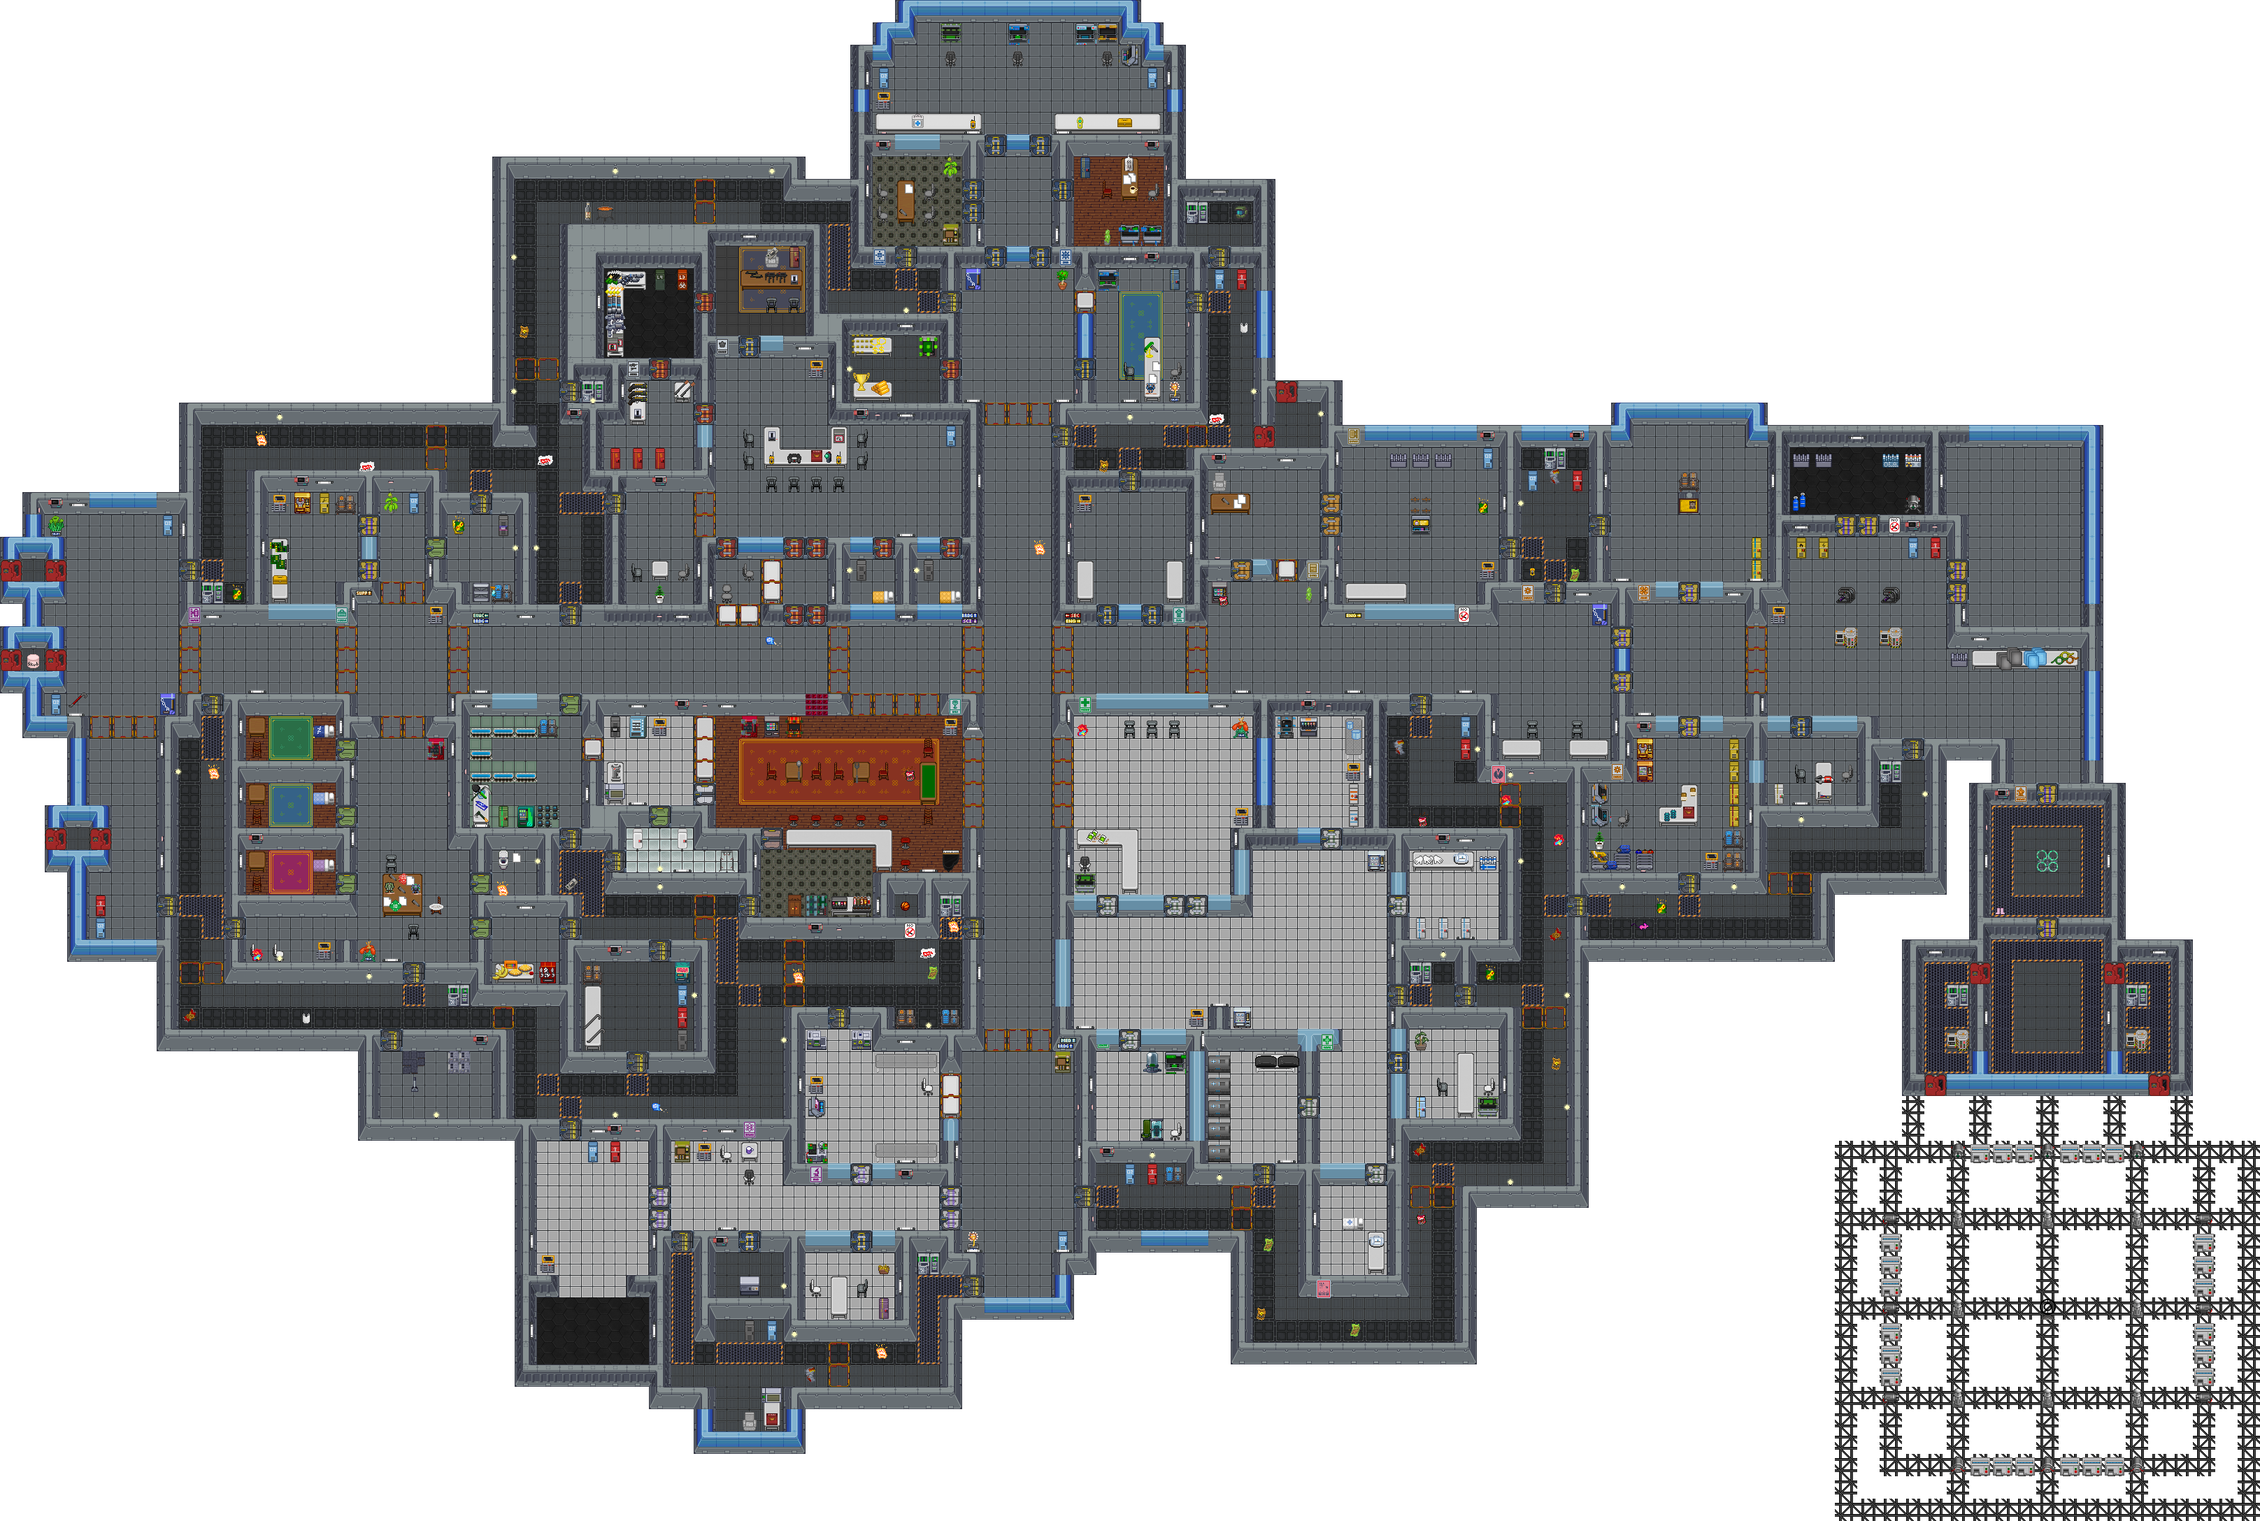
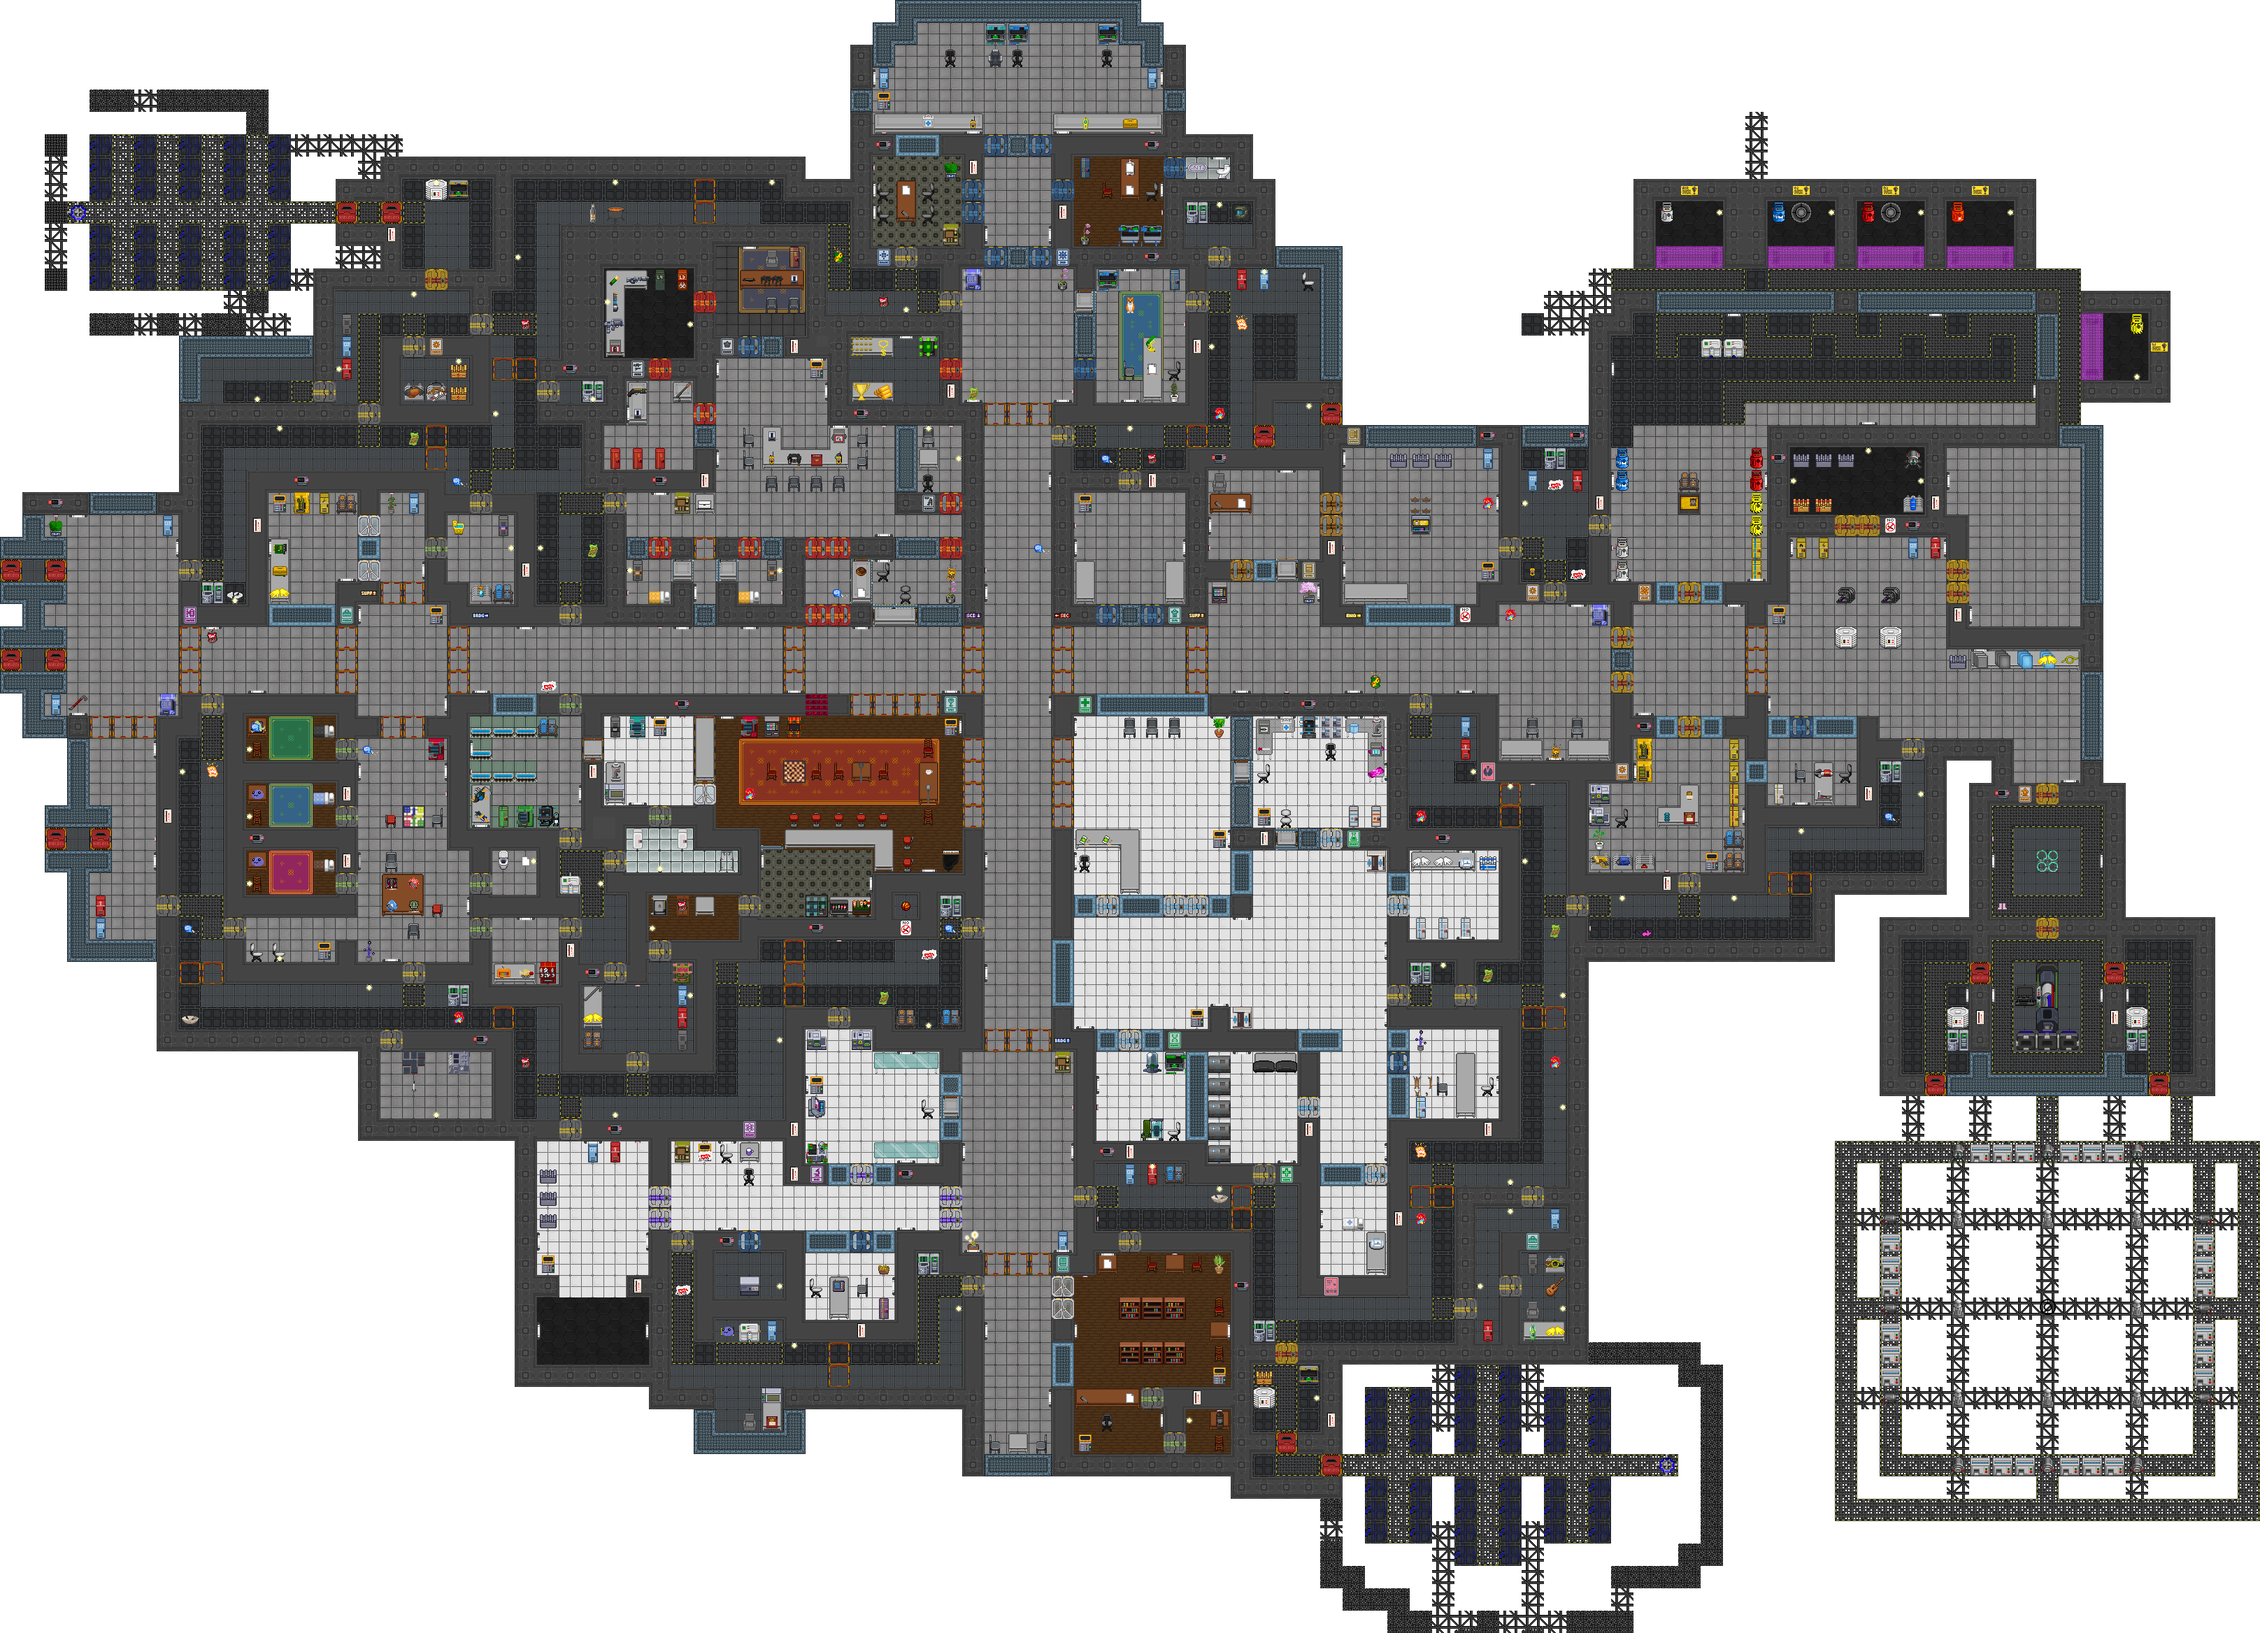
Fix issues with grid rotation

diff --git a/Content.MapRenderer/Painters/EntityPainter.cs b/Content.MapRenderer/Painters/EntityPainter.cs
@@ -3,7 +3,6 @@ using System.Collections.Concurrent;
 using System.Collections.Generic;
 using System.Linq;
 using Content.Shared.SubFloor;
-using Robust.Client.Graphics;
 using Robust.Client.ResourceManagement;
 using Robust.Server.GameObjects;
 using Robust.Shared.GameObjects;
@@ -12,6 +11,7 @@ using Robust.Shared.Timing;
 using SixLabors.ImageSharp;
 using SixLabors.ImageSharp.PixelFormats;
 using SixLabors.ImageSharp.Processing;
+using static Robust.Client.Graphics.RSI.State;
 using static Robust.UnitTesting.RobustIntegrationTest;
 using SpriteComponent = Robust.Client.GameObjects.SpriteComponent;
 
@@ -21,6 +21,8 @@ namespace Content.MapRenderer.Painters
     {
         private readonly IResourceCache _cResourceCache;
         private readonly IEntityManager _cEntityManager;
+        private readonly IMapManager _cMapManager;
+
         private readonly IEntityManager _sEntityManager;
 
         private readonly Dictionary<(string path, string state), Image> _images;
@@ -32,6 +34,8 @@ namespace Content.MapRenderer.Painters
         {
             _cResourceCache = client.ResolveDependency<IResourceCache>();
             _cEntityManager = client.ResolveDependency<IEntityManager>();
+            _cMapManager = client.ResolveDependency<IMapManager>();
+
             _sEntityManager = server.ResolveDependency<IEntityManager>();
 
             _errorImage = Image.Load<Rgba32>(_cResourceCache.ContentFileRead("/Textures/error.rsi/error.png"));
@@ -50,11 +54,6 @@ namespace Content.MapRenderer.Painters
 
             var stopwatch = new Stopwatch();
             stopwatch.Start();
-
-            var bounds = grid.WorldBounds;
-            var xOffset = (int) Math.Abs(bounds.Left);
-            var yOffset = (int) Math.Abs(bounds.Bottom);
-
 
             // TODO cache this shit what are we insane
             entities.Sort(Comparer<EntityData>.Create((x, y) => x.Sprite.DrawDepth.CompareTo(y.Sprite.DrawDepth)));
@@ -121,11 +120,11 @@ namespace Content.MapRenderer.Painters
                                 (xStart, xEnd, yStart, yEnd) = dir switch
                                 {
                                     // Only need the first tuple as doubles for the compiler to recognize it
-                                    RSI.State.Direction.South => (0d, 0.5d, 0d, 0.5d),
-                                    RSI.State.Direction.East => (0, 0.5, 0.5, 1),
-                                    RSI.State.Direction.North => (0.5, 1, 0, 0.5),
-                                    RSI.State.Direction.West => (0.5, 1, 0.5, 1),
-                                    _ => throw new ArgumentOutOfRangeException()
+                                    Direction.South => (0d, 0.5d, 0d, 0.5d),
+                                    Direction.East => (0, 0.5, 0.5, 1),
+                                    Direction.North => (0.5, 1, 0, 0.5),
+                                    Direction.West => (0.5, 1, 0.5, 1),
+                                    _ => throw new ArgumentOutOfRangeException(nameof(dir))
                                 };
                                 break;
                             }
@@ -149,10 +148,11 @@ namespace Content.MapRenderer.Painters
 
                     image.Mutate(o => o
                         .DrawImage(coloredImage, PixelColorBlendingMode.Multiply, PixelAlphaCompositionMode.SrcAtop, 1)
-                        .Resize(32, 32).Flip(FlipMode.Vertical));
+                        .Resize(32, 32)
+                        .Flip(FlipMode.Vertical));
 
-                    var pointX = (int) ((entity.X + xOffset) * 32) - 16;
-                    var pointY = (int) ((entity.Y + yOffset) * 32) - 16;
+                    var pointX = (int) entity.X;
+                    var pointY = (int) entity.Y;
                     gridCanvas.Mutate(o => o.DrawImage(image, new Point(pointX, pointY), 1));
                 }
             }
@@ -187,9 +187,20 @@ namespace Content.MapRenderer.Painters
                         $"No sprite component found on an entity for which a server sprite component exists. Prototype id: {entity.Prototype?.ID}");
                 }
 
-                var position = entity.Transform.WorldPosition;
-                var x = position.X;
-                var y = position.Y;
+                var xOffset = 0;
+                var yOffset = 0;
+                var tileSize = 1;
+
+                if (_cMapManager.TryGetGrid(entity.Transform.GridID, out var grid))
+                {
+                    xOffset = (int) Math.Abs(grid.LocalBounds.Left);
+                    yOffset = (int) Math.Abs(grid.LocalBounds.Bottom);
+                    tileSize = grid.TileSize;
+                }
+
+                var position = entity.Transform.LocalPosition;
+                var x = ((float) Math.Floor(position.X) + xOffset) * tileSize * TilePainter.TileImageSize;
+                var y = ((float) Math.Floor(position.Y) + yOffset) * tileSize * TilePainter.TileImageSize;
                 var data = new EntityData(sprite, x, y);
 
                 components.GetOrAdd(entity.Transform.GridID, _ => new List<EntityData>()).Add(data);

diff --git a/Content.MapRenderer/Painters/MapPainter.cs b/Content.MapRenderer/Painters/MapPainter.cs
@@ -9,6 +9,7 @@ using Robust.Server.GameObjects;
 using Robust.Server.Player;
 using Robust.Shared;
 using Robust.Shared.Map;
+using Robust.Shared.Maths;
 using Robust.Shared.Timing;
 using SixLabors.ImageSharp;
 using SixLabors.ImageSharp.PixelFormats;
@@ -30,7 +31,8 @@ namespace Content.MapRenderer.Painters
                 CVarOverrides =
                 {
                     [CVars.NetPVS.Name] = "false"
-                }
+                },
+                Pool = false
             };
 
             var serverOptions = new ServerContentIntegrationOption
@@ -39,7 +41,8 @@ namespace Content.MapRenderer.Painters
                 {
                     [CCVars.GameMap.Name] = map,
                     [CVars.NetPVS.Name] = "false"
-                }
+                },
+                Pool = false
             };
 
             var (client, server) = await StartConnectedServerClientPair(clientOptions, serverOptions);
@@ -72,7 +75,8 @@ namespace Content.MapRenderer.Painters
                 }
             });
 
-            await RunTicksSync(client, server, 2);
+            await RunTicksSync(client, server, 10);
+            await Task.WhenAll(client.WaitIdleAsync(), server.WaitIdleAsync());
 
             var sMapManager = server.ResolveDependency<IMapManager>();
 
@@ -84,22 +88,30 @@ namespace Content.MapRenderer.Painters
             {
                 sPlayerManager.GetAllPlayers().Single().AttachedEntity?.Delete();
                 grids = sMapManager.GetAllMapGrids(new MapId(1)).ToArray();
+
+                foreach (var grid in grids)
+                {
+                    grid.WorldRotation = Angle.Zero;
+                }
             });
+
+            await RunTicksSync(client, server, 10);
+            await Task.WhenAll(client.WaitIdleAsync(), server.WaitIdleAsync());
 
             foreach (var grid in grids)
             {
-                var tileXSize = 32;
-                var tileYSize = 32;
+                var tileXSize = grid.TileSize * TilePainter.TileImageSize;
+                var tileYSize = grid.TileSize * TilePainter.TileImageSize;
 
-                var bounds = grid.WorldBounds;
+                var bounds = grid.LocalBounds;
 
-                var left = Math.Abs(bounds.Left);
-                var right = Math.Abs(bounds.Right);
-                var top = Math.Abs(bounds.Top);
-                var bottom = Math.Abs(bounds.Bottom);
+                var left = bounds.Left;
+                var right = bounds.Right;
+                var top = bounds.Top;
+                var bottom = bounds.Bottom;
 
-                var w = (int) Math.Ceiling(left + right) * tileXSize;
-                var h = (int) Math.Ceiling(top + bottom) * tileYSize;
+                var w = (int) Math.Ceiling(right - left) * tileXSize;
+                var h = (int) Math.Ceiling(top - bottom) * tileYSize;
 
                 var gridCanvas = new Image<Rgba32>(w, h);
 
@@ -117,12 +129,11 @@ namespace Content.MapRenderer.Painters
             // We don't care if it fails as we have already saved the images.
             try
             {
-#pragma warning disable 4014
-                TearDown();
-#pragma warning restore 4014
+                await OneTimeTearDown();
             }
-            catch (InvalidOperationException)
+            catch
             {
+                // ignored
             }
         }
     }

diff --git a/Content.MapRenderer/Program.cs b/Content.MapRenderer/Program.cs
@@ -4,8 +4,6 @@ using System.Collections.Generic;
 using System.IO;
 using System.Threading.Tasks;
 using Content.MapRenderer.Extensions;
-using Content.MapRenderer.GitHub;
-using Content.MapRenderer.Imgur.Client;
 using Content.MapRenderer.Painters;
 using Robust.Shared.Utility;
 using SixLabors.ImageSharp;
@@ -71,7 +69,6 @@ namespace Content.MapRenderer
                 maps.Add(fileName);
             }
 
-
             Console.WriteLine($"Creating images for {maps.Count} maps");
 
             foreach (var map in maps)
@@ -80,7 +77,8 @@ namespace Content.MapRenderer
 
                 await foreach (var grid in MapPainter.Paint(map))
                 {
-                    var savePath = DirectoryExtensions.MapImages().FullName;
+                    var fileName = Path.GetFileNameWithoutExtension(map);
+                    var savePath = $"{DirectoryExtensions.MapImages().FullName}{Path.DirectorySeparatorChar}{fileName}.png";
 
                     Console.WriteLine($"Writing grid of size {grid.Width}x{grid.Height} to {savePath}");
 
@@ -88,6 +86,8 @@ namespace Content.MapRenderer
                     grid.Dispose();
                 }
             }
+
+            Console.WriteLine($"Created {maps.Count} map images.");
 
             // var repo = EnvironmentExtensions.GetVariableOrThrow(GitHubRepositoryEnvKey);
             // var prNumber = int.Parse(EnvironmentExtensions.GetVariableOrThrow(PrNumberEnvKey));

diff --git a/Content.MapRenderer/Painters/TilePainter.cs b/Content.MapRenderer/Painters/TilePainter.cs
@@ -1,6 +1,7 @@
 using System;
 using System.Collections.Generic;
 using System.Linq;
+using Robust.Client.Graphics;
 using Robust.Client.ResourceManagement;
 using Robust.Shared.Map;
 using Robust.Shared.Timing;
@@ -14,7 +15,7 @@ namespace Content.MapRenderer.Painters
     public class TilePainter
     {
         private const string TilesPath = "/Textures/Tiles/";
-        private const int TileImageSize = 32;
+        public const int TileImageSize = EyeManager.PixelsPerMeter;
 
         private readonly ITileDefinitionManager _sTileDefinitionManager;
         private readonly IResourceCache _cResourceCache;
@@ -30,7 +31,7 @@ namespace Content.MapRenderer.Painters
             var stopwatch = new Stopwatch();
             stopwatch.Start();
 
-            var bounds = grid.WorldBounds;
+            var bounds = grid.LocalBounds;
             var xOffset = Math.Abs(bounds.Left);
             var yOffset = Math.Abs(bounds.Bottom);
             var tileSize = grid.TileSize * TileImageSize;
